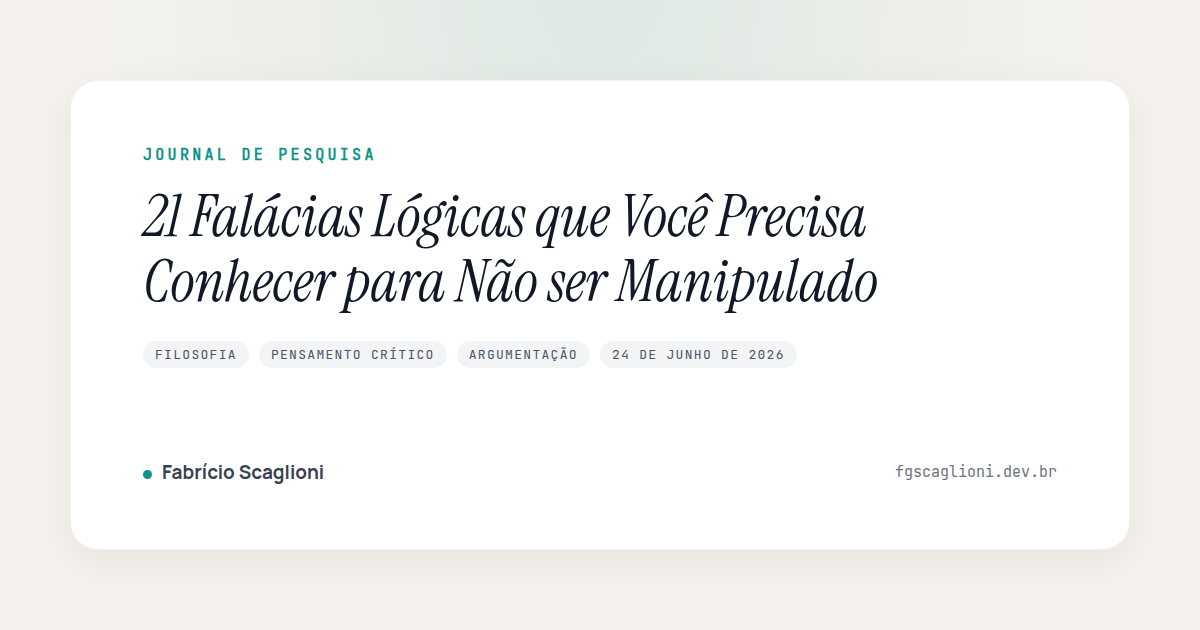
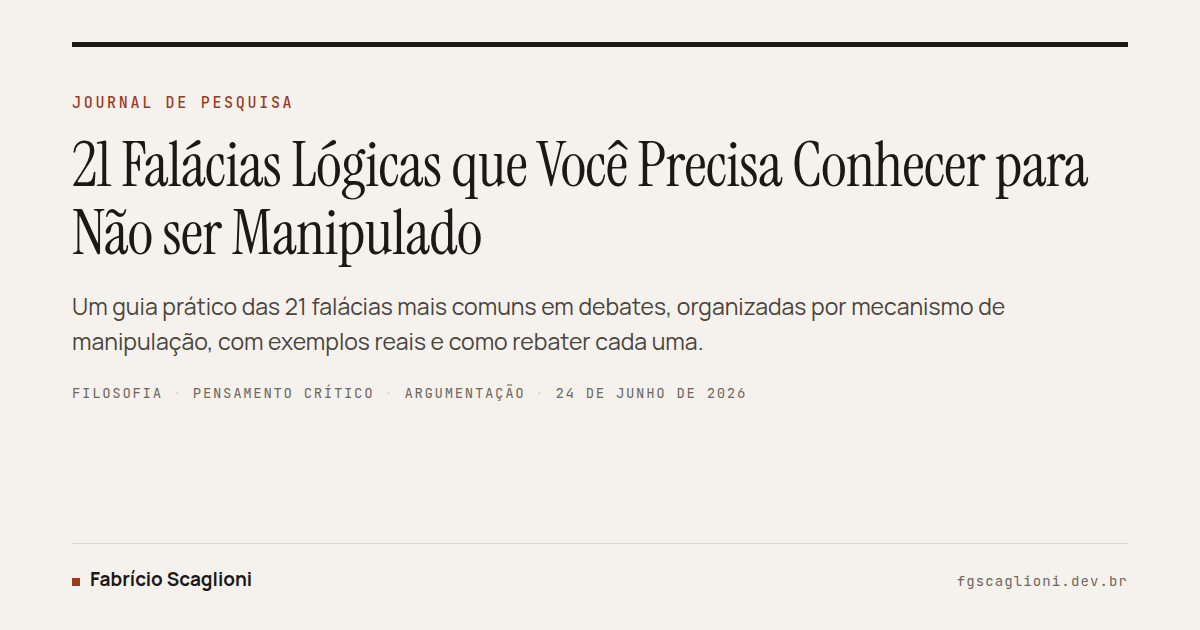
feat(og): cards de compartilhamento na identidade de papel e tinta

diff --git a/tests/og.test.ts b/tests/og.test.ts
@@ -1,0 +1,39 @@
+import { describe, it, expect } from 'vitest';
+import * as fs from 'node:fs';
+import * as path from 'node:path';
+
+const ROOT = path.resolve(import.meta.dirname!, '..');
+const SCRIPT = path.join(ROOT, 'scripts/generate-og.mjs');
+const FONTS = path.join(ROOT, 'public/fonts');
+
+const source = fs.readFileSync(SCRIPT, 'utf-8');
+
+describe('cards Open Graph', () => {
+  it('so referencia arquivos de fonte que existem em public/fonts', () => {
+    const referenciados = [...source.matchAll(/font\('([^']+)'\)/g)].map((m) => m[1]);
+    expect(referenciados.length).toBeGreaterThan(0);
+    const faltando = referenciados.filter((f) => !fs.existsSync(path.join(FONTS, f)));
+    expect(faltando, 'Fontes citadas que nao existem: ' + faltando.join(', ')).toEqual([]);
+  });
+
+  it('segue a doutrina visual: sem raio, sem sombra, sem gradiente', () => {
+    expect(source).not.toMatch(/border-radius/);
+    expect(source).not.toMatch(/box-shadow/);
+    expect(source).not.toMatch(/radial-gradient|linear-gradient/);
+  });
+
+  it('usa os tokens do site, nao hex avulsos', () => {
+    // papel, tinta e acento oxblood
+    expect(source).toContain('#F5F2ED');
+    expect(source).toContain('#1B1815');
+    expect(source).toContain('#9C3A1E');
+    // o acento antigo do site nao pode voltar
+    expect(source).not.toContain('#0D9488');
+  });
+
+  it('titulo em serifa romana, nunca italica', () => {
+    const h1 = source.match(/h1\s*\{[^}]*\}/s)?.[0] ?? '';
+    expect(h1).toContain('Instrument Serif');
+    expect(h1).not.toContain('italic');
+  });
+});

diff --git a/src/data/changelogData.ts b/src/data/changelogData.ts
@@ -9,6 +9,19 @@ export interface ChangeLogEntry {
 export const changelogData: ChangeLogEntry[] = [
   {
     date: "19/10/2026",
+    version: "v2.8.2",
+    title: "Cards de compartilhamento na identidade nova",
+    description: "O template dos cards Open Graph foi reescrito na linguagem de papel, tinta e fio, e passou a carregar a descrição do post. As fontes que o script referenciava não existiam mais.",
+    changes: [
+      "O card de compartilhamento deixa o cartão branco com raio, sombra e selo teal e passa a usar papel, tinta e fio, com título em serifa romana, rótulos em mono e um único acento oxblood.",
+      "O card passa a exibir a descrição do post entre o título e a data, então quem vê o link compartilhado entende o assunto antes de clicar.",
+      "Correção silenciosa: o script referenciava manrope-400-latin.woff2, manrope-700-latin.woff2 e jetbrains-mono-400-latin.woff2, arquivos que deixaram de existir quando as fontes foram consolidadas em variáveis. Os cards vinham sendo renderizados com a fonte do sistema, sem erro e sem aviso.",
+      "Os 14 cards de Open Graph foram regerados.",
+      "Novo teste tests/og.test.ts: exige que toda fonte citada exista em public/fonts e que o card não use raio, sombra, gradiente nem o acento antigo.",
+    ]
+  },
+  {
+    date: "19/10/2026",
     version: "v2.8.1",
     title: "Código inline sem crases e tag unificada",
     description: "Correção da exibição de código inline nos posts e unificação da tag de educação, que aparecia com duas grafias.",
